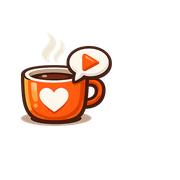
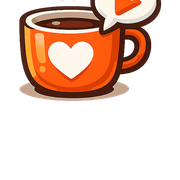
Фавикон: только чашка впритык (заполнение 80/100%), ?v=3 для сброса кэша

diff --git a/vzroslye.html b/vzroslye.html
@@ -1932,10 +1932,10 @@ footer {
 .photo-pair img:hover { transform: rotate(0) scale(1.03); }
 
 </style>
-  <link rel="icon" href="/images/favicon.ico?v=2" sizes="any">
-  <link rel="icon" type="image/png" sizes="32x32" href="/images/favicon-32.png?v=2">
-  <link rel="icon" type="image/png" sizes="16x16" href="/images/favicon-16.png?v=2">
-  <link rel="apple-touch-icon" sizes="180x180" href="/images/apple-touch-icon.png?v=2">
+  <link rel="icon" href="/images/favicon.ico?v=3" sizes="any">
+  <link rel="icon" type="image/png" sizes="32x32" href="/images/favicon-32.png?v=3">
+  <link rel="icon" type="image/png" sizes="16x16" href="/images/favicon-16.png?v=3">
+  <link rel="apple-touch-icon" sizes="180x180" href="/images/apple-touch-icon.png?v=3">
   <link rel="manifest" href="/site.webmanifest">
   <meta name="theme-color" content="#C8553D">
   <style>

diff --git a/index.html b/index.html
@@ -1918,10 +1918,10 @@ footer {
 }
 
 </style>
-  <link rel="icon" href="/images/favicon.ico?v=2" sizes="any">
-  <link rel="icon" type="image/png" sizes="32x32" href="/images/favicon-32.png?v=2">
-  <link rel="icon" type="image/png" sizes="16x16" href="/images/favicon-16.png?v=2">
-  <link rel="apple-touch-icon" sizes="180x180" href="/images/apple-touch-icon.png?v=2">
+  <link rel="icon" href="/images/favicon.ico?v=3" sizes="any">
+  <link rel="icon" type="image/png" sizes="32x32" href="/images/favicon-32.png?v=3">
+  <link rel="icon" type="image/png" sizes="16x16" href="/images/favicon-16.png?v=3">
+  <link rel="apple-touch-icon" sizes="180x180" href="/images/apple-touch-icon.png?v=3">
   <link rel="manifest" href="/site.webmanifest">
   <meta name="theme-color" content="#C8553D">
   <style>
